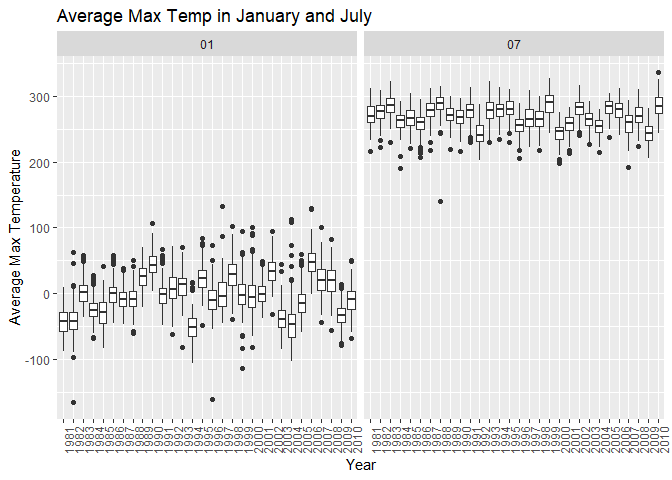
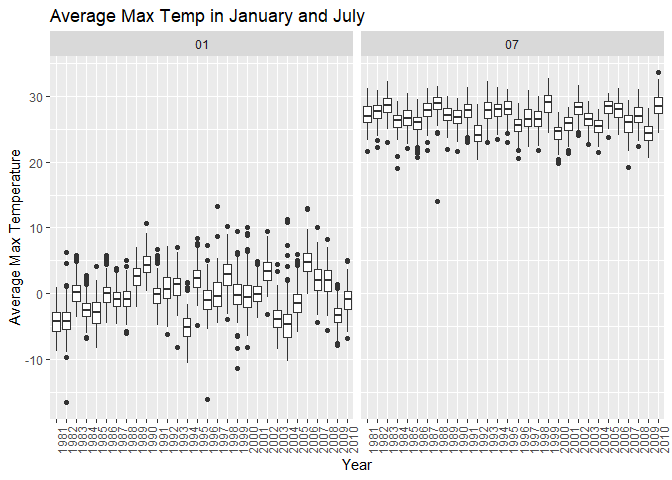
Fix plot aesthetics

diff --git a/p8105_hw3_ph2538.md b/p8105_hw3_ph2538.md
@@ -153,21 +153,18 @@ five_panel_plot = clean_brfss %>%
   mutate(year = as.factor(year)) %>% 
   group_by(year, state) %>%
   summarize(mean_excellent = mean(Excellent), mean_vgood = mean(`Very good`), mean_good = mean(Good), mean_fair = mean(Fair), mean_poor = mean(Poor)) %>%
-gather(key = response, value = proportion, mean_excellent:mean_poor) 
+  gather(key = response, value = proportion, mean_excellent:mean_poor) %>% 
+  mutate(response_f = factor(response, levels = c('mean_excellent', 'mean_vgood', 'mean_good', 'mean_fair', 'mean_poor')))
   
 ggplot(five_panel_plot, aes(x = year, y = proportion)) + 
   geom_boxplot() + 
-  facet_grid(. ~ response) +
+  facet_grid(. ~ response_f) +
   theme(axis.text.x = element_text(angle = 90))
 ```
 
     ## Warning: Removed 21 rows containing non-finite values (stat_boxplot).
 
 ![](p8105_hw3_ph2538_files/figure-gfm/five_panel-1.png)<!-- -->
-
-``` r
-#NEED TO ORDER THESE 
-```
 
 ## Problem 2
 
@@ -234,11 +231,22 @@ length(unique(instacart$aisle_id))
     ## [1] 134
 
 ``` r
+length(unique(instacart$aisle))
+```
+
+    ## [1] 134
+
+``` r
 #there are 134 unique aisles, including an aisle called "missing"
 
 aisle_max = 
   instacart %>%
   group_by(aisle_id) %>%
+  summarize(n = n()) 
+
+name_aisle_max = 
+  instacart %>%
+  group_by(aisle) %>%
   summarize(n = n()) 
 
 #sort by items sold
@@ -261,6 +269,25 @@ arrange(aisle_max, desc(n))
     ## # ... with 124 more rows
 
 ``` r
+arrange(name_aisle_max, desc(n))
+```
+
+    ## # A tibble: 134 x 2
+    ##    aisle                              n
+    ##    <chr>                          <int>
+    ##  1 fresh vegetables              150609
+    ##  2 fresh fruits                  150473
+    ##  3 packaged vegetables fruits     78493
+    ##  4 yogurt                         55240
+    ##  5 packaged cheese                41699
+    ##  6 water seltzer sparkling water  36617
+    ##  7 milk                           32644
+    ##  8 chips pretzels                 31269
+    ##  9 soy lactosefree                26240
+    ## 10 bread                          23635
+    ## # ... with 124 more rows
+
+``` r
 #Aisle 83 (fresh vegetables) has most items ordered from it, followed by aisle 24 (fresh fruits).
 ```
 
@@ -274,21 +301,37 @@ fruits).
 
 ``` r
 #Make a plot that shows the number of items ordered in each aisle. Order aisles sensibly, and organize your plot so others can read it.
-
-ggplot(aisle_max, aes(x = aisle_id, y = n)) + 
-  geom_point() +
+ 
+aisle_max %>% 
+  mutate(aisle_id = as.factor(aisle_id)) %>% 
+  mutate(aisle_id = forcats::fct_reorder(aisle_id, n)) %>% 
+  ggplot(aes(x = aisle_id, y = n)) +
+  geom_bar(stat = "identity") +
   labs(
     title = "Number of Items per Aisle",
     x = "Aisle ID",
     y = "Number of Items"
-  ) 
+  ) +
+  theme(axis.text.x = element_text(angle = 90), text = element_text(size = 5))
 ```
 
 ![](p8105_hw3_ph2538_files/figure-gfm/plot_aisle_number_items-1.png)<!-- -->
 
 ``` r
-#reorder this plot with highest number of items first, to lowest. try to make bar plot 
+name_aisle_max %>% 
+  mutate(aisle = as.factor(aisle)) %>% 
+  mutate(aisle = forcats::fct_reorder(aisle, n)) %>% 
+  ggplot(aes(x = aisle, y = n)) + 
+  geom_bar(stat = "identity") +
+  labs(
+    title = "Number of Items per Aisle",
+    x = "Aisle Name",
+    y = "Number of Items"
+  ) +
+  theme(axis.text.x = element_text(angle = 90), text = element_text(size = 5))
 ```
+
+![](p8105_hw3_ph2538_files/figure-gfm/plot_aisle_number_items-2.png)<!-- -->
 
 ``` r
 #Make a table showing the most popular item aisles “baking ingredients”, “dog food care”, and “packaged vegetables fruits”
@@ -305,7 +348,8 @@ popular_item_sort =
   popular_item %>%
   group_by(aisle) %>% 
   top_n(5) %>% 
-  spread(key = aisle, value = product_name)
+  spread(key = aisle, value = product_name) %>% 
+  knitr::kable(digits = 1)
 ```
 
     ## Selecting by n
@@ -314,29 +358,23 @@ popular_item_sort =
 popular_item_sort
 ```
 
-    ## # A tibble: 15 x 4
-    ##        n `baking ingredients`  `dog food care`         `packaged vegetabl~
-    ##    <int> <chr>                 <chr>                   <chr>              
-    ##  1    24 <NA>                  Organix Grain Free Chi~ <NA>               
-    ##  2    25 <NA>                  Standard Size Pet Wast~ <NA>               
-    ##  3    26 <NA>                  Small Dog Biscuits      <NA>               
-    ##  4    28 <NA>                  Organix Chicken & Brow~ <NA>               
-    ##  5    30 <NA>                  Snack Sticks Chicken &~ <NA>               
-    ##  6   327 Organic Vanilla Extr~ <NA>                    <NA>               
-    ##  7   329 Premium Pure Cane Gr~ <NA>                    <NA>               
-    ##  8   336 Cane Sugar            <NA>                    <NA>               
-    ##  9   387 Pure Baking Soda      <NA>                    <NA>               
-    ## 10   499 Light Brown Sugar     <NA>                    <NA>               
-    ## 11  3823 <NA>                  <NA>                    Organic Grape Toma~
-    ## 12  4059 <NA>                  <NA>                    Seedless Red Grapes
-    ## 13  4966 <NA>                  <NA>                    Organic Blueberries
-    ## 14  5546 <NA>                  <NA>                    Organic Raspberries
-    ## 15  9784 <NA>                  <NA>                    Organic Baby Spina~
-
-``` r
-#min_rank(n)
-#separate 
-```
+|    n | baking ingredients                 | dog food care                                   | packaged vegetables fruits |
+| ---: | :--------------------------------- | :---------------------------------------------- | :------------------------- |
+|   24 | NA                                 | Organix Grain Free Chicken & Vegetable Dog Food | NA                         |
+|   25 | NA                                 | Standard Size Pet Waste bags                    | NA                         |
+|   26 | NA                                 | Small Dog Biscuits                              | NA                         |
+|   28 | NA                                 | Organix Chicken & Brown Rice Recipe             | NA                         |
+|   30 | NA                                 | Snack Sticks Chicken & Rice Recipe Dog Treats   | NA                         |
+|  327 | Organic Vanilla Extract            | NA                                              | NA                         |
+|  329 | Premium Pure Cane Granulated Sugar | NA                                              | NA                         |
+|  336 | Cane Sugar                         | NA                                              | NA                         |
+|  387 | Pure Baking Soda                   | NA                                              | NA                         |
+|  499 | Light Brown Sugar                  | NA                                              | NA                         |
+| 3823 | NA                                 | NA                                              | Organic Grape Tomatoes     |
+| 4059 | NA                                 | NA                                              | Seedless Red Grapes        |
+| 4966 | NA                                 | NA                                              | Organic Blueberries        |
+| 5546 | NA                                 | NA                                              | Organic Raspberries        |
+| 9784 | NA                                 | NA                                              | Organic Baby Spinach       |
 
 ``` r
 #Make a table showing the mean hour of the day at which Pink Lady Apples and Coffee Ice Cream are ordered on each day of the week; format this table for human readers (i.e. produce a 2 x 7 table).
@@ -374,9 +412,12 @@ data(ny_noaa)
 clean_noaa = 
   ny_noaa %>% 
   janitor::clean_names() %>%
-  separate(date, into = c("year", "month", "day"), sep = "-") 
-
-#do we want to take the average across all years of a location or across all locations for 1 year?
+  separate(date, into = c("year", "month", "day"), sep = "-") %>% 
+  mutate(
+    prp = prcp/10,
+    tmax = as.numeric(tmax)/10,
+    tmin = as.numeric(tmin)/10
+  )
 ```
 
 ### Questions for Problem 3
@@ -446,8 +487,6 @@ plot_max_temp
 tmax_tmin_plot = 
   clean_noaa %>% 
   na.omit() %>% 
-  mutate(tmax = as.numeric(tmax)) %>% 
-  mutate(tmin = as.numeric(tmin)) %>% 
   ggplot(aes(x = tmin, y = tmax)) + 
   geom_hex() +
   labs(
@@ -457,12 +496,6 @@ tmax_tmin_plot =
   ) +
   theme(axis.text.x = element_text(angle = 90))
   
-  tmax_tmin_plot
-```
-
-![](p8105_hw3_ph2538_files/figure-gfm/unnamed-chunk-5-1.png)<!-- -->
-
-``` r
 snowfall_distribution = 
   clean_noaa %>% 
   na.omit() %>% 
@@ -475,14 +508,8 @@ snowfall_distribution =
     y = "Snow"
   ) +
   theme(axis.text.x = element_text(angle = 90))
-  
-snowfall_distribution
-```
 
-![](p8105_hw3_ph2538_files/figure-gfm/unnamed-chunk-5-2.png)<!-- -->
-
-``` r
 tmax_tmin_plot + snowfall_distribution
 ```
 
-![](p8105_hw3_ph2538_files/figure-gfm/unnamed-chunk-5-3.png)<!-- -->
+![](p8105_hw3_ph2538_files/figure-gfm/unnamed-chunk-5-1.png)<!-- -->
